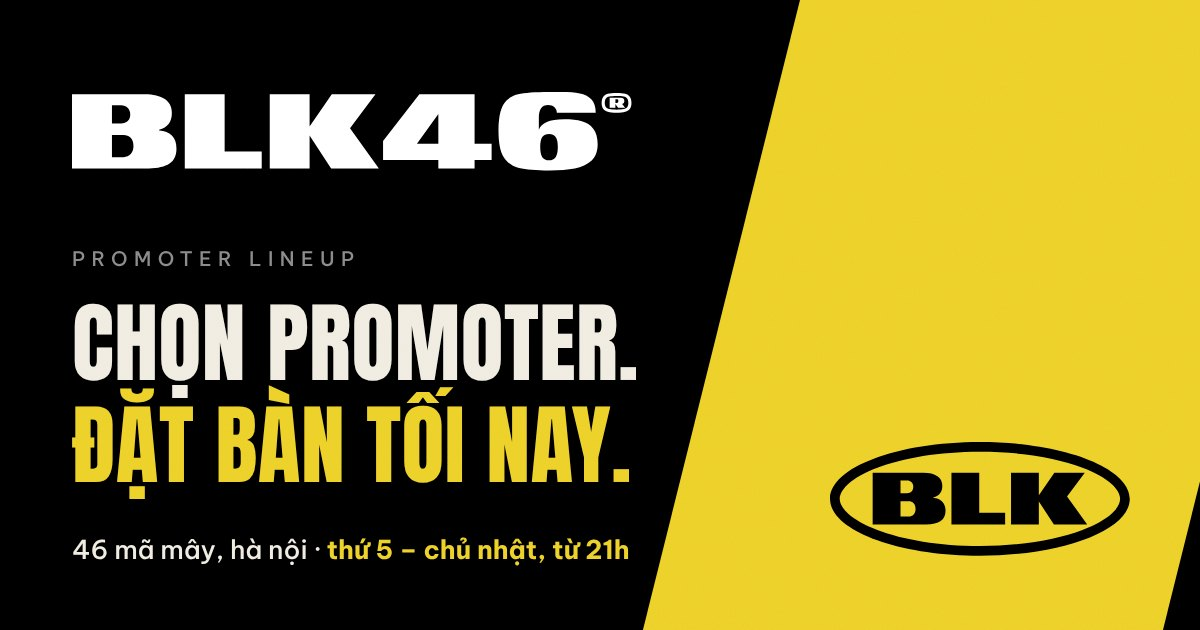
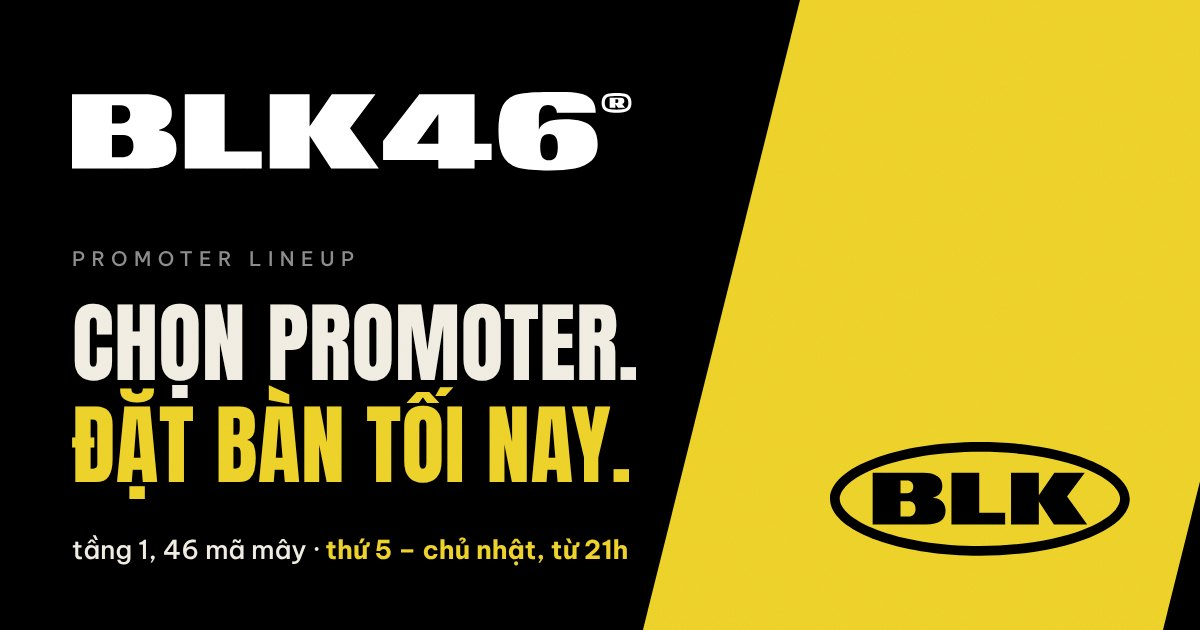
Địa chỉ: tầng 1, 46 Mã Mây (tầng 2 là quán khác)
Claude-Session: https://claude.ai/code/session_01JE41jYre7bc9NfjC6h3RqB

Changed region(s): [[0.0617, 0.8444, 0.5242, 0.9048]]

diff --git a/public/index.html b/public/index.html
@@ -3,24 +3,24 @@
 <head>
 <meta charset="utf-8">
 <meta name="viewport" content="width=device-width,initial-scale=1,viewport-fit=cover">
-<meta name="description" content="chọn promoter, đặt bàn tối nay. hip-hop newschool, upper house, afro house. thứ 5 – chủ nhật từ 21h, 46 mã mây, hà nội.">
-<title>BLK46 · chọn promoter, đặt bàn · 46 Mã Mây, Hà Nội</title>
+<meta name="description" content="chọn promoter, đặt bàn tối nay. hip-hop newschool, upper house, afro house. thứ 5 – chủ nhật từ 21h, tầng 1, 46 mã mây, hà nội.">
+<title>BLK46 · chọn promoter, đặt bàn · Tầng 1, 46 Mã Mây, Hà Nội</title>
 <!-- thẻ xem trước khi chia sẻ link (Zalo, Messenger, Facebook, Instagram) -->
 <meta property="og:type" content="website">
 <meta property="og:site_name" content="BLK46">
 <meta property="og:locale" content="vi_VN">
 <meta property="og:url" content="https://blk46club.github.io/promoter/">
 <meta property="og:title" content="BLK46 · chọn promoter, đặt bàn tối nay">
-<meta property="og:description" content="hip-hop, upper house, afro house. 46 mã mây, hà nội.">
+<meta property="og:description" content="hip-hop, upper house, afro house. tầng 1, 46 mã mây, hà nội.">
 <meta property="og:image" content="https://blk46club.github.io/promoter/brand/share.jpg">
 <meta property="og:image:width" content="1200">
 <meta property="og:image:height" content="630">
-<meta property="og:image:alt" content="BLK46 promoter lineup: chọn promoter, đặt bàn tối nay. 46 mã mây, hà nội.">
+<meta property="og:image:alt" content="BLK46 promoter lineup: chọn promoter, đặt bàn tối nay. tầng 1, 46 mã mây, hà nội.">
 <meta name="twitter:card" content="summary_large_image">
 <meta name="theme-color" content="#000000">
 <link rel="icon" type="image/png" sizes="32x32" href="brand/favicon-32.png">
 <link rel="apple-touch-icon" href="brand/apple-touch-icon.png">
-<script type="application/ld+json">{"@context":"https://schema.org","@type":"NightClub","name":"BLK46","url":"https://blk46club.github.io/promoter/","image":"https://blk46club.github.io/promoter/brand/share.jpg","telephone":"+84852839239","address":{"@type":"PostalAddress","streetAddress":"46 Mã Mây","addressLocality":"Hà Nội","addressCountry":"VN"},"hasMap":"https://share.google/SntJEvVotOjQeHLYL","hasMenu":"https://blkmenu.vercel.app","openingHoursSpecification":[{"@type":"OpeningHoursSpecification","dayOfWeek":["Thursday","Sunday"],"opens":"21:00","closes":"03:00"},{"@type":"OpeningHoursSpecification","dayOfWeek":["Friday","Saturday"],"opens":"21:00","closes":"04:00"}],"sameAs":["https://www.instagram.com/blk.hanoi/","https://www.threads.com/@blk.hanoi","https://www.tiktok.com/@blk.hanoi","https://www.facebook.com/share/1FHCWCqqY9/"]}</script>
+<script type="application/ld+json">{"@context":"https://schema.org","@type":"NightClub","name":"BLK46","url":"https://blk46club.github.io/promoter/","image":"https://blk46club.github.io/promoter/brand/share.jpg","telephone":"+84852839239","address":{"@type":"PostalAddress","streetAddress":"Tầng 1, 46 Mã Mây","addressLocality":"Hà Nội","addressCountry":"VN"},"hasMap":"https://share.google/SntJEvVotOjQeHLYL","hasMenu":"https://blkmenu.vercel.app","openingHoursSpecification":[{"@type":"OpeningHoursSpecification","dayOfWeek":["Thursday","Sunday"],"opens":"21:00","closes":"03:00"},{"@type":"OpeningHoursSpecification","dayOfWeek":["Friday","Saturday"],"opens":"21:00","closes":"04:00"}],"sameAs":["https://www.instagram.com/blk.hanoi/","https://www.threads.com/@blk.hanoi","https://www.tiktok.com/@blk.hanoi","https://www.facebook.com/share/1FHCWCqqY9/"]}</script>
 <link rel="preconnect" href="https://fonts.googleapis.com">
 <link rel="preconnect" href="https://fonts.gstatic.com" crossorigin>
 <link rel="stylesheet" href="https://fonts.googleapis.com/css2?family=Anton&family=Be+Vietnam+Pro:wght@400;500;700&family=Yellowtail&display=swap">
@@ -446,7 +446,7 @@ img{max-width:100%}
   <div class="wrap">
     <img class="fmark" src="brand/blk46.svg" alt="BLK46®" width="156" height="22">
     <p class="fline">mỗi tối một bữa tiệc. mang năng lượng tới, phần còn lại để blk.</p>
-    <p class="finfo">46 mã mây, hà nội · <a href="https://share.google/SntJEvVotOjQeHLYL" target="_blank" rel="noopener">xem bản đồ</a><br>thứ 5, chủ nhật: <span class="nw">21h – 3h sáng</span><br>thứ 6, thứ 7: <span class="nw">21h – 4h sáng</span> · nghỉ thứ 2, 3, 4<br>hotline <a href="tel:0852839239">0852 839 239</a> · <a href="https://blkmenu.vercel.app" target="_blank" rel="noopener">menu</a></p>
+    <p class="finfo">tầng 1, 46 mã mây, hà nội · <a href="https://share.google/SntJEvVotOjQeHLYL" target="_blank" rel="noopener">xem bản đồ</a><br>thứ 5, chủ nhật: <span class="nw">21h – 3h sáng</span><br>thứ 6, thứ 7: <span class="nw">21h – 4h sáng</span> · nghỉ thứ 2, 3, 4<br>hotline <a href="tel:0852839239">0852 839 239</a> · <a href="https://blkmenu.vercel.app" target="_blank" rel="noopener">menu</a></p>
     <nav class="soc" id="socLinks" aria-label="mạng xã hội của quán"></nav>
   </div>
 </footer>
@@ -574,7 +574,7 @@ function tonightInfo(now=Date.now()){
   return {open:false,text:`hôm nay quán nghỉ. mở lại thứ 5, ${OPEN_FROM}h`};
 }
 function tonightHTML(){const t=tonightInfo();
-  return `<div class="tonight${t.open?"":" off"}" role="status"><span class="dot" aria-hidden="true"></span><span><b>${t.text}</b> <span class="nw">· 46 mã mây</span></span><span class="tn-links"><a href="${MENU_URL}" target="_blank" rel="noopener">xem menu</a><a href="tel:${HOTLINE}">gọi ${HOTLINE_SHOW}</a></span></div>`}
+  return `<div class="tonight${t.open?"":" off"}" role="status"><span class="dot" aria-hidden="true"></span><span><b>${t.text}</b> <span class="nw">· tầng 1, 46 mã mây</span></span><span class="tn-links"><a href="${MENU_URL}" target="_blank" rel="noopener">xem menu</a><a href="tel:${HOTLINE}">gọi ${HOTLINE_SHOW}</a></span></div>`}
 const SOCIAL_ICON={
   instagram:["Instagram",'<rect x="3" y="3" width="18" height="18" rx="5" fill="none" stroke="currentColor" stroke-width="2"/><circle cx="12" cy="12" r="4.2" fill="none" stroke="currentColor" stroke-width="2"/><circle cx="17.4" cy="6.6" r="1.3" fill="currentColor"/>'],
   facebook:["Facebook",'<path fill="currentColor" d="M13.5 21v-7.5h2.6l.4-3h-3V8.6c0-.9.3-1.5 1.6-1.5h1.6V4.4c-.3 0-1.2-.1-2.3-.1-2.3 0-3.9 1.4-3.9 4v2.2H7.9v3h2.6V21z"/>'],
@@ -1009,7 +1009,7 @@ function renderBook(idolId){
   {const m=document.getElementById("prvMore");if(m)m.onclick=()=>{const cur=S.prv&&S.prv.id===i.id?S.prv.limit:PRV_STEP;S.prv={id:i.id,limit:Math.min(PRV_MAX,cur+PRV_STEP)};const y=scrollY;sync();render();scrollTo(0,y)}}
   {const sb=document.getElementById("shareIdol");if(sb)sb.onclick=async()=>{
     const url=location.origin+location.pathname+"#book-"+i.id,msg=document.getElementById("shareMsg");
-    const data={title:`${i.stageName} · BLK46`,text:`đặt bàn cùng ${i.stageName} ở blk46, 46 mã mây.`,url};
+    const data={title:`${i.stageName} · BLK46`,text:`đặt bàn cùng ${i.stageName} ở blk46, tầng 1, 46 mã mây.`,url};
     try{if(navigator.share){await navigator.share(data);return}await navigator.clipboard.writeText(url);if(msg)msg.textContent="đã copy link."}
     catch(e){if(e&&e.name==="AbortError")return;if(msg)msg.textContent=url}
   }}
